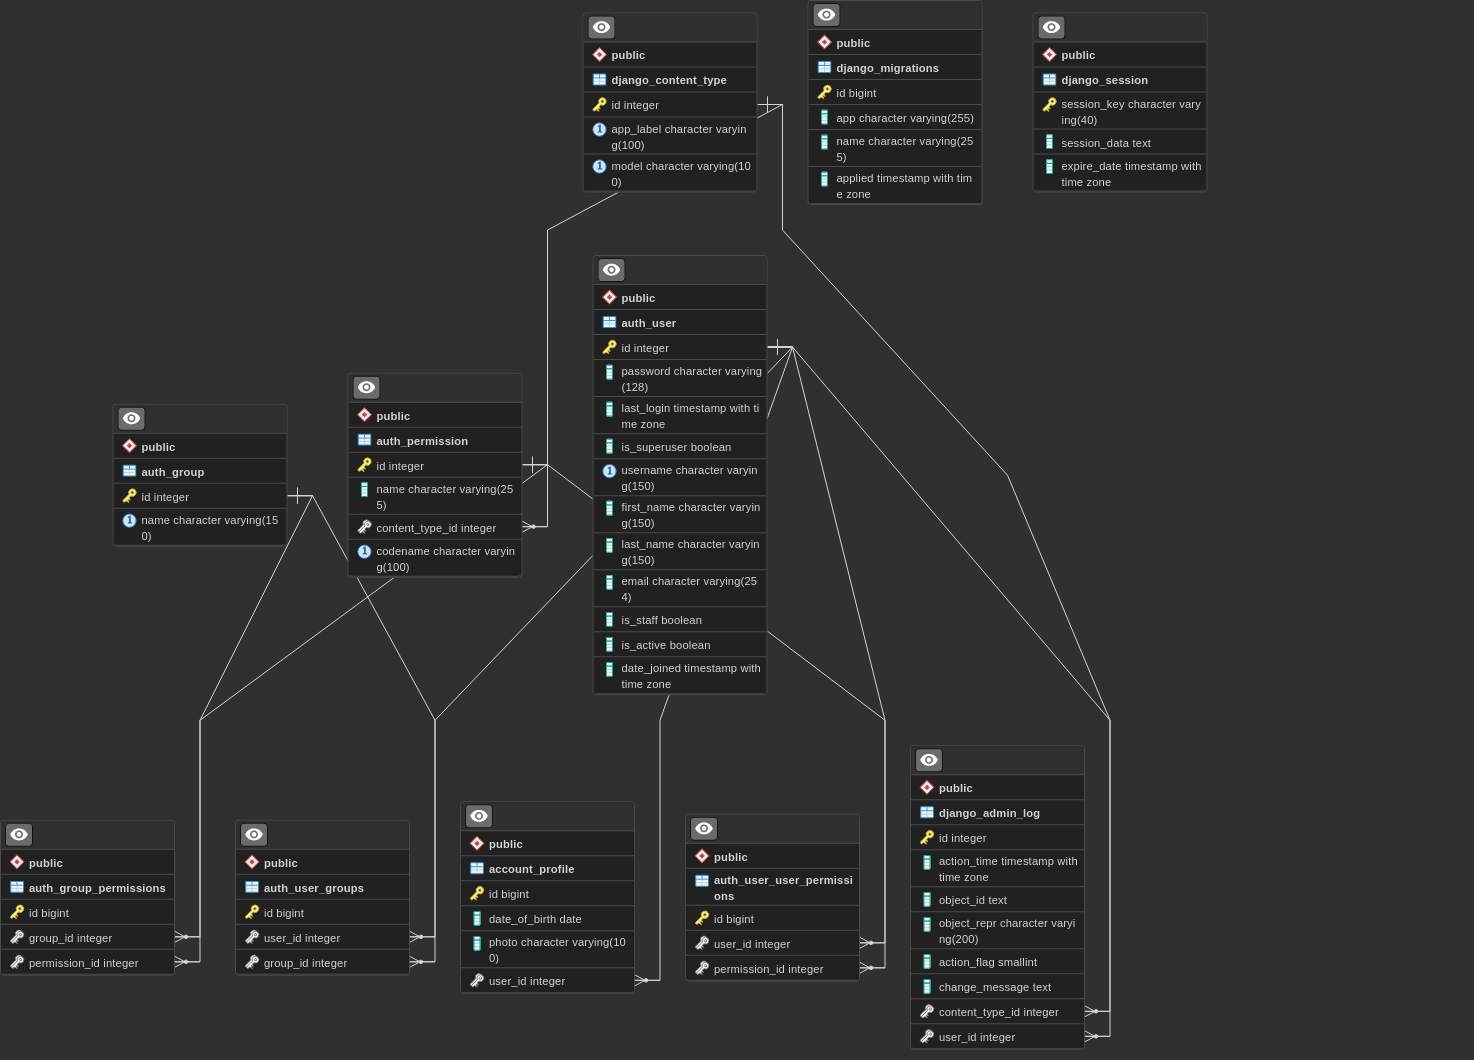
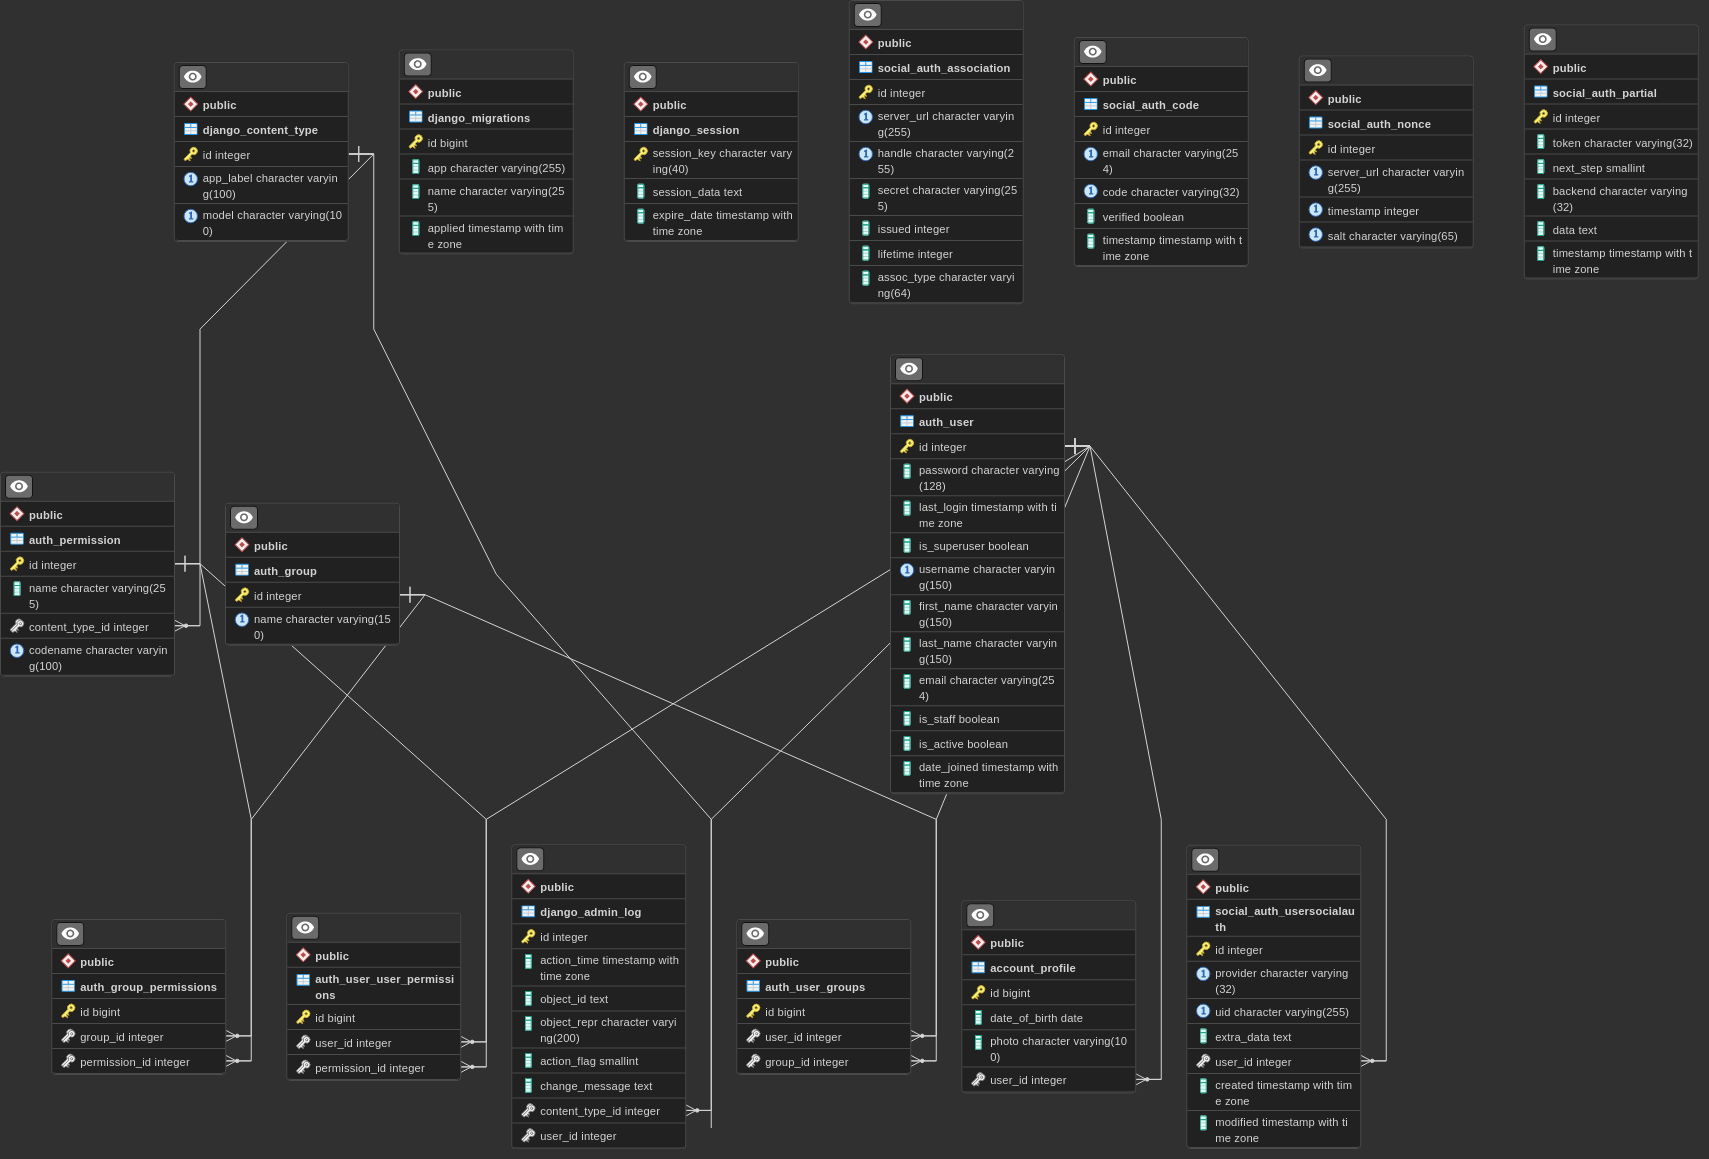
Configure social django third-party app and configure tls https server

diff --git a/memories/settings.py b/memories/settings.py
@@ -29,7 +29,7 @@ SECRET_KEY = str(os.getenv('SECRET_KEY'))
 # SECURITY WARNING: don't run with debug turned on in production!
 DEBUG = True
 
-ALLOWED_HOSTS = []
+ALLOWED_HOSTS = ['127.0.0.1', 'localhost', 'dev.fedora.me']
 
 # Application definition
 
@@ -42,6 +42,11 @@ INSTALLED_APPS = [
     'django.contrib.sessions',
     'django.contrib.messages',
     'django.contrib.staticfiles',
+    # Add social django third-party app to enable oauth with social media apps
+    # Note: social media apps prevent redirecting to localhost, therefore /etc/hosts must be modified by adding a host
+    'social_django',
+    # Add django extension to enable run server plus which enables lts http for social media apps
+    'django_extensions',
 ]
 
 MIDDLEWARE = [

diff --git a/memories/urls.py b/memories/urls.py
@@ -22,6 +22,8 @@ urlpatterns = [
     path('admin/', admin.site.urls),
     # Include account urls
     path('account/', include('account.urls')),
+    # Include social django urls
+    path('social-auth/', include('social_django.urls', namespace='social')),
 ]
 
 if settings.DEBUG:
